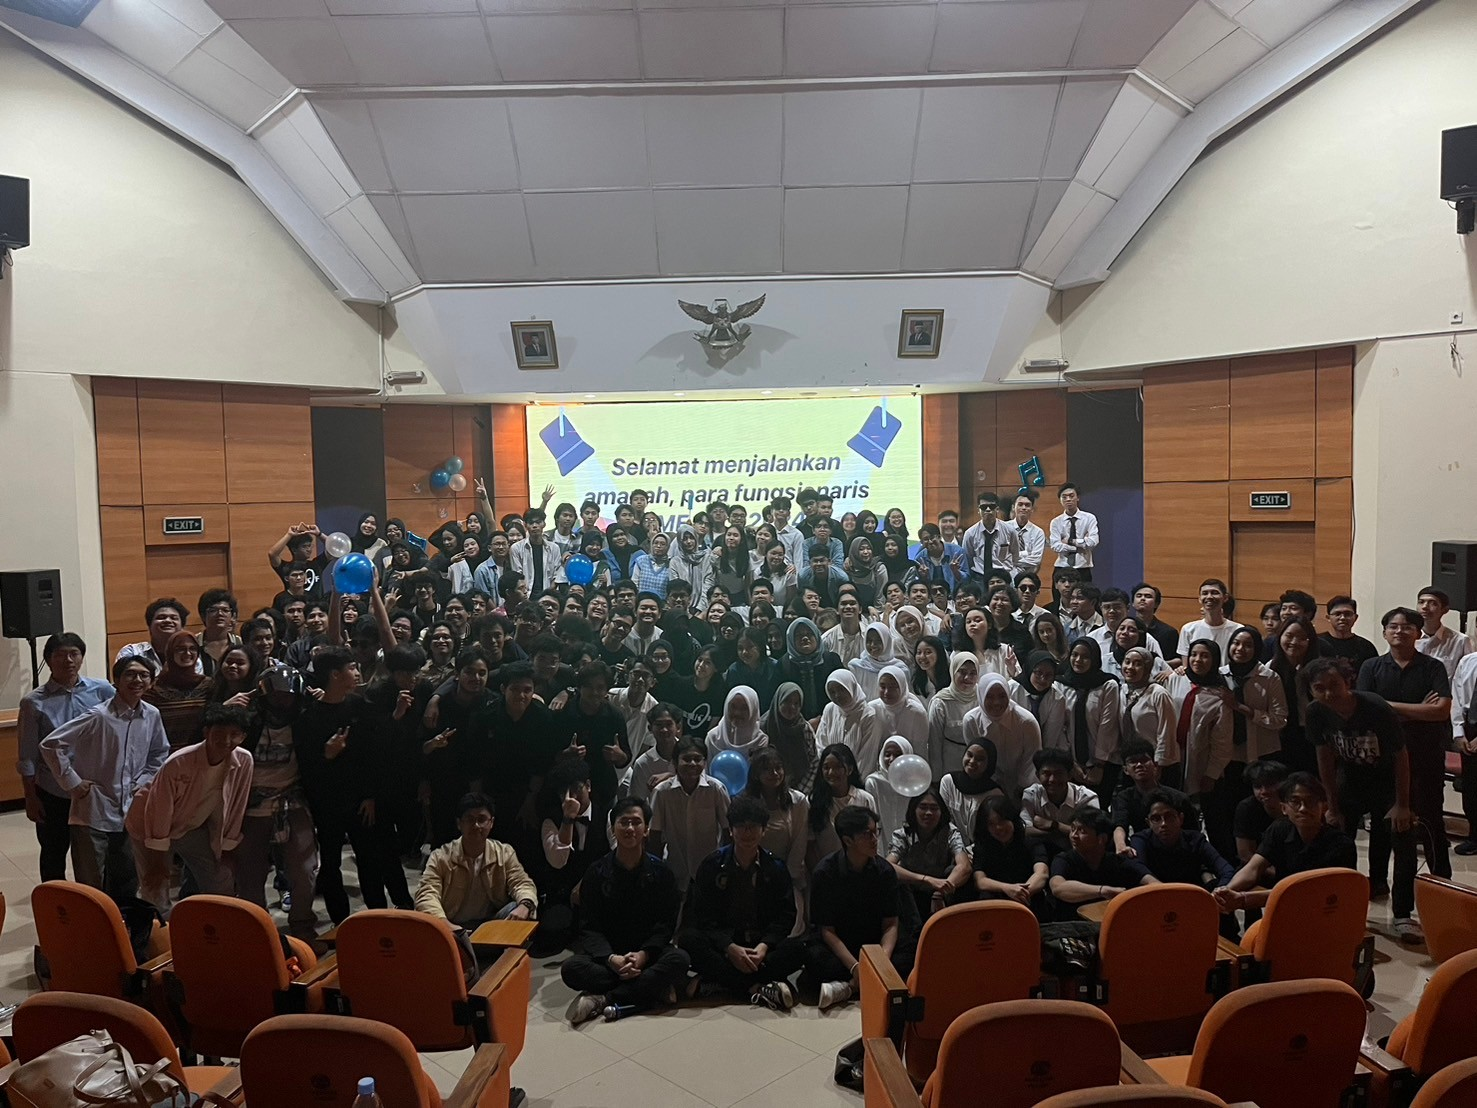
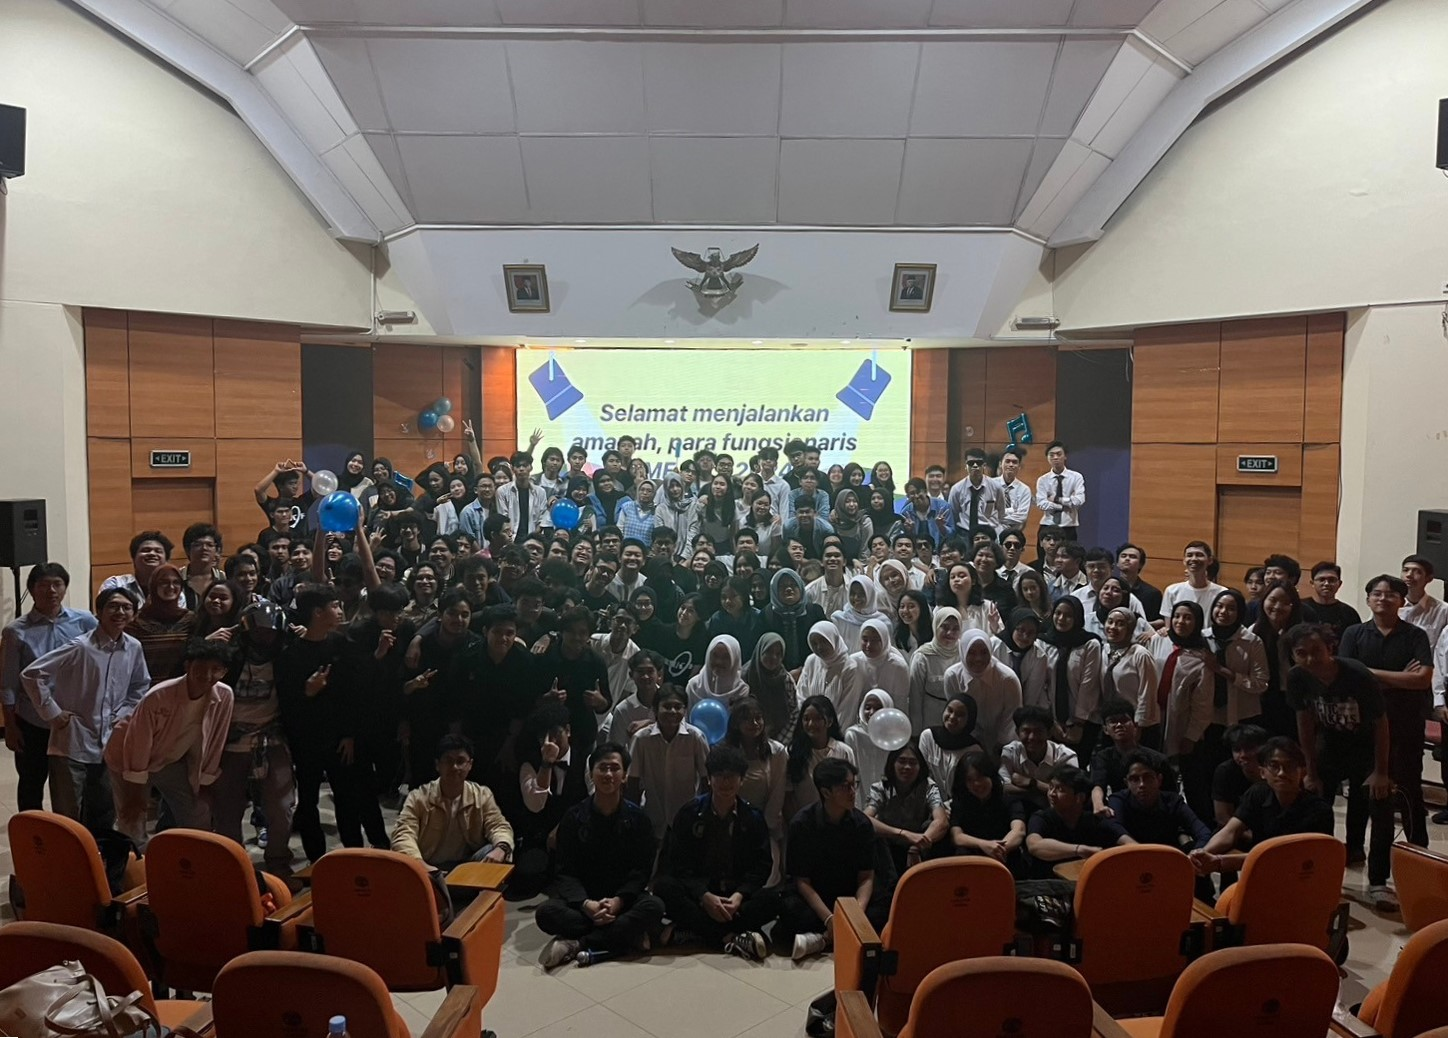
Nambah gambar

diff --git a/app/experience/page.jsx b/app/experience/page.jsx
@@ -32,7 +32,7 @@ const experiences = [
       { name: "ptt" },
       { name: "React.js" },
     ],
-    image: "/ime.jpg",
+    image: "/Experience/IME.jpg",
   },
   {
     num: "02",
@@ -45,7 +45,7 @@ const experiences = [
       { name: "Teamwork" },
       { name: "Communication" },
     ],
-    image: "/Experience/ime.jpg",
+    image: "/Experience/IME.jpg",
   },
   {
     num: "03",
@@ -58,7 +58,7 @@ const experiences = [
       { name: "Teamwork" },
       { name: "Communication" },
     ],
-    image: "/ime.jpg",
+    image: "/Experience/MADK.JPG",
   },
 ];
 const Experience = () => {
